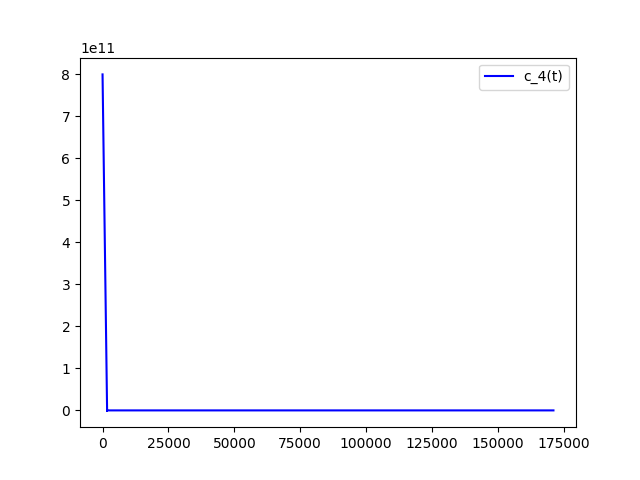
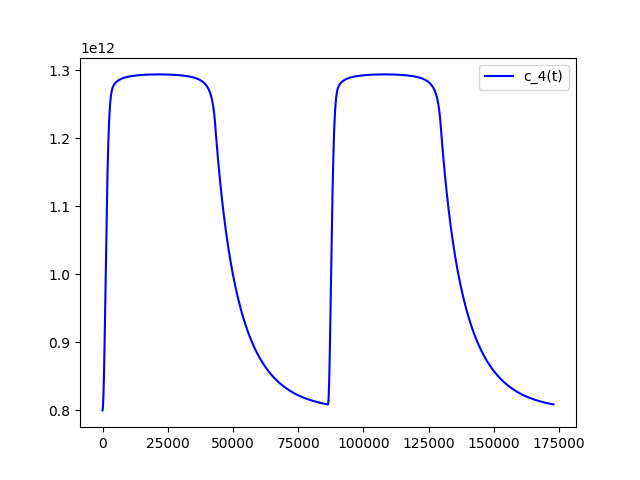
change result

diff --git a/lab1_2024/main2.py b/lab1_2024/main2.py
@@ -8,7 +8,7 @@ t_d = 24 * 60 * 60
 k_1 = []
 k_2 = 10**5
 k_3 = 10**(-16)
-delta_t = 2 * t_d / 100
+delta_t = 2 * t_d / 10000
 
 def delta_t_generate(n : int) -> float:
   return 2 * t_d / n
